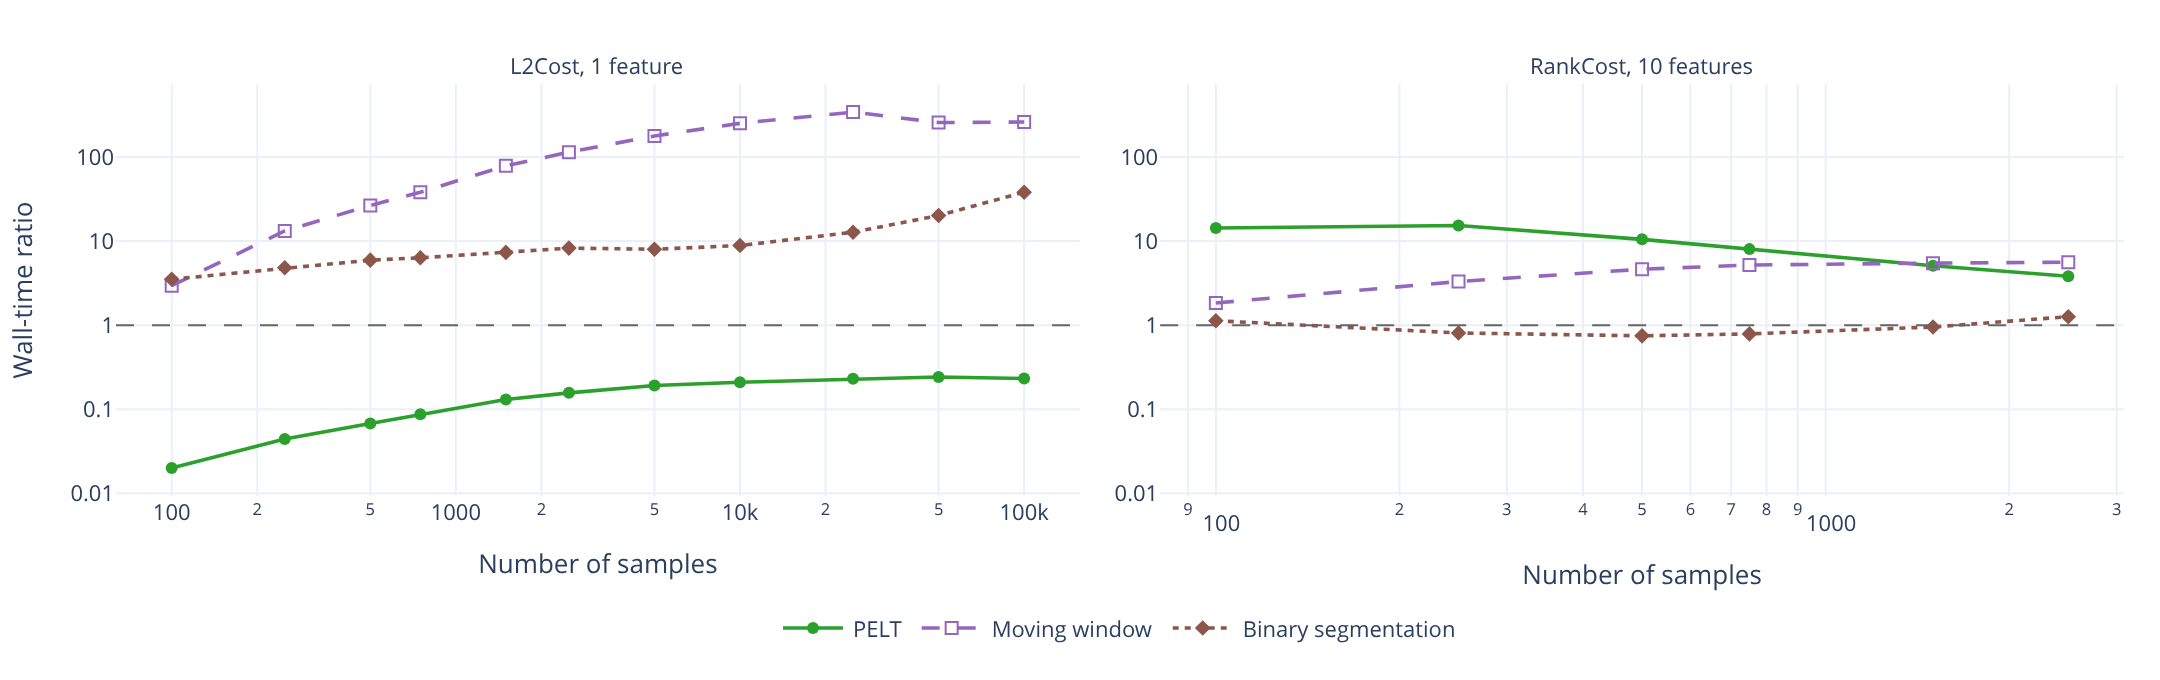
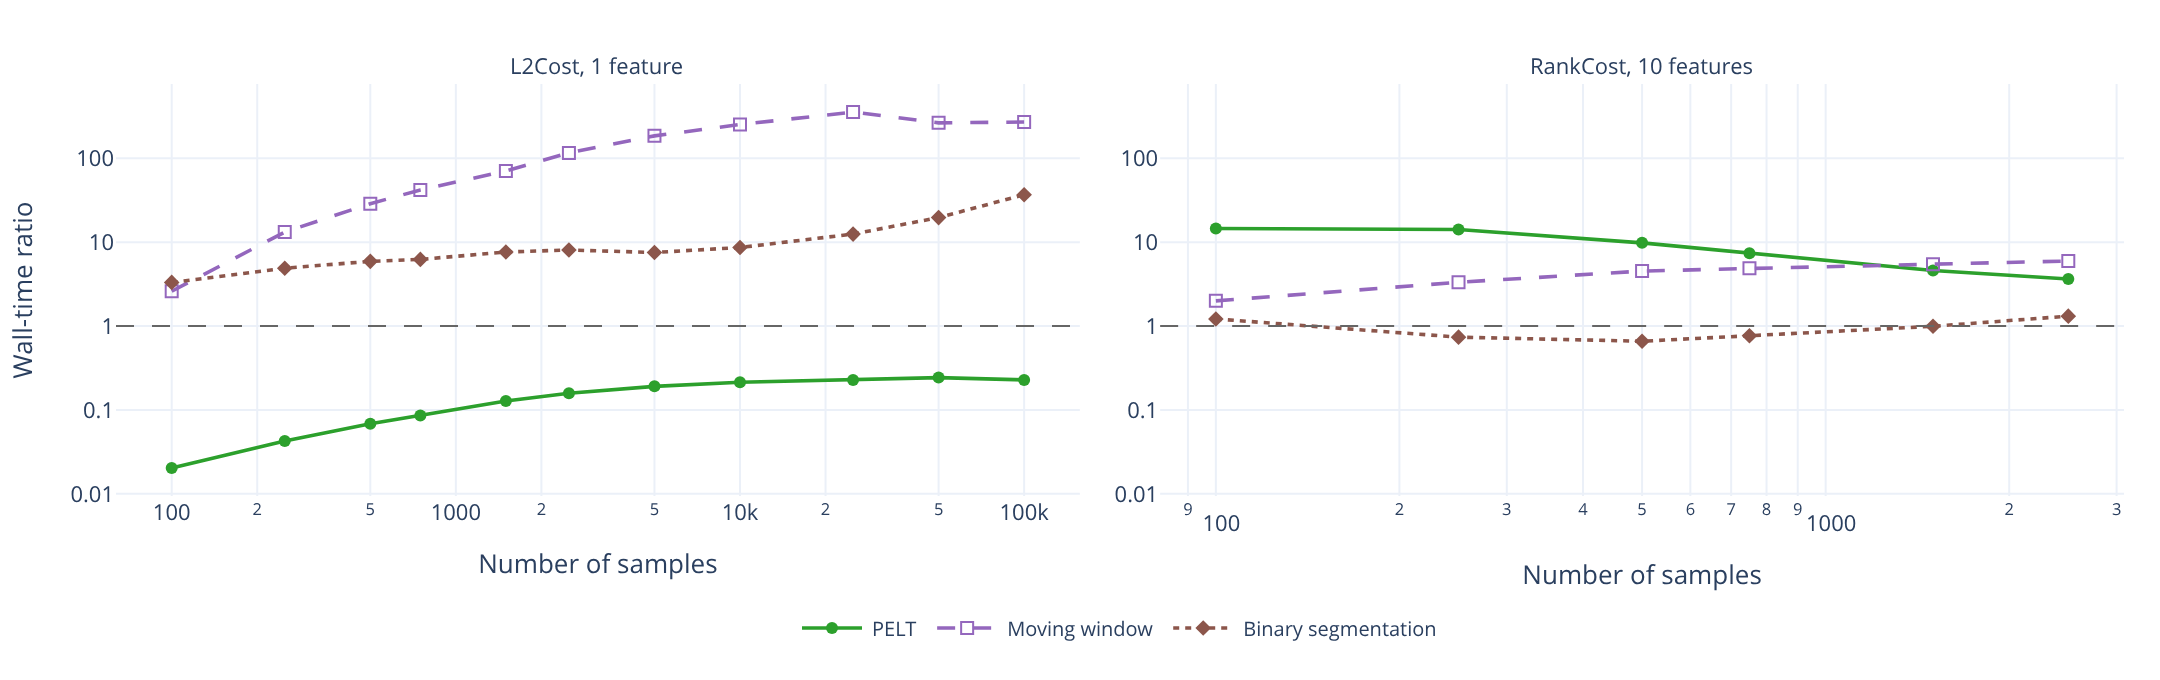
Include FPOP in L2 Change-in-mean compact benchmark.

diff --git a/scripts/paper_plotting/plot_compact_score_benchmarks.py b/scripts/paper_plotting/plot_compact_score_benchmarks.py
@@ -16,12 +16,16 @@ from change_bench.paths import find_repo_root
 from change_bench.plotting import relative_speed_frame
 
 PROJECT_DIR = find_repo_root(Path(__file__))
-RESULTS_DIR = PROJECT_DIR / "results" / "paper" / "visualized_results"
+# RESULTS_DIR = PROJECT_DIR / "results" / "paper" / "visualized_results"
+RESULTS_DIR = PROJECT_DIR / "results" / "paper"
 FIGURES_DIR = PROJECT_DIR / "figures" / "paper" / "compact"
 FIGURE_DATE = date.today().isoformat()
 SKCHANGE_VERSION = version("skchange")
 RUPTURES_VERSION = version("ruptures")
 METRIC_COL = "ski_jump_mean_s"
+
+# Set to False to drop the "Skchange: PELT" line from the absolute figure.
+SHOW_SKCHANGE_PELT: bool = True
 
 PACKAGE_COLORS = {"skchange": "#1f77b4", "ruptures": "#ff7f0e"}
 PACKAGE_LABELS = {"skchange": "Skchange", "ruptures": "Ruptures"}
@@ -33,9 +37,13 @@ PACKAGE_SEARCH_LABELS = {
 }
 SEARCH_STYLES = {
     "pelt": ("solid", "circle", "#2ca02c", "PELT"),
+    "fpop": ("dashdot", "triangle-up", "#d62728", "FPOP"),
     "moving_window": ("dash", "square-open", "#9467bd", "Moving window"),
     "binseg": ("dot", "diamond", "#8c564b", "Binary segmentation"),
 }
+# The triangle renders visually smaller than other symbols at equal size.
+MARKER_SIZES = {"fpop": 9}
+DEFAULT_MARKER_SIZE = 6
 
 
 @dataclass(frozen=True)
@@ -55,6 +63,7 @@ PANELS = [
         dimension=1,
         algorithms={
             "pelt": "pelt_l2",
+            "fpop": "fpop_l2",
             "moving_window": "moving_window_l2",
             "binseg": "binseg_l2_cusum",
         },
@@ -131,10 +140,16 @@ def build_absolute_figure(
         for search, algorithm in panel.algorithms.items():
             dash, symbol, _, search_label = SEARCH_STYLES[search]
             for package, color in PACKAGE_COLORS.items():
+                skchange_pelt = package == "skchange" and search == "pelt"
+                if skchange_pelt and not SHOW_SKCHANGE_PELT:
+                    continue
                 line = frame.filter(
                     (pl.col("cpd_algorithm") == algorithm)
                     & (pl.col("package") == package)
                 ).sort("n_samples")
+                if line.is_empty():
+                    # Skchange-only algorithms (e.g. FPOP) have no ruptures rows.
+                    continue
                 package_search_label = PACKAGE_SEARCH_LABELS.get(
                     (package, search), search_label
                 )
@@ -148,7 +163,11 @@ def build_absolute_figure(
                         legendgroup=legend_name,
                         showlegend=legend_name not in shown,
                         line=dict(color=color, dash=dash, width=1.8),
-                        marker=dict(color=color, symbol=symbol, size=6),
+                        marker=dict(
+                            color=color,
+                            symbol=symbol,
+                            size=MARKER_SIZES.get(search, DEFAULT_MARKER_SIZE),
+                        ),
                         hovertemplate=(
                             f"{legend_name}<br>Number of samples=%{{x}}"
                             "<br>Wall time=%{y:.3g} s"
@@ -190,6 +209,9 @@ def build_relative_figure(
         for search, algorithm in panel.algorithms.items():
             dash, symbol, color, search_label = SEARCH_STYLES[search]
             line = ratios.filter(pl.col("cpd_algorithm") == algorithm).sort("n_samples")
+            if line.is_empty():
+                # Skchange-only algorithms (e.g. FPOP) have no ruptures ratio.
+                continue
             figure.add_trace(
                 go.Scatter(
                     x=line["n_samples"],
@@ -199,7 +221,11 @@ def build_relative_figure(
                     legendgroup=search,
                     showlegend=search not in shown,
                     line=dict(color=color, dash=dash, width=1.8),
-                    marker=dict(color=color, symbol=symbol, size=6),
+                    marker=dict(
+                        color=color,
+                        symbol=symbol,
+                        size=MARKER_SIZES.get(search, DEFAULT_MARKER_SIZE),
+                    ),
                     hovertemplate=(
                         f"{search_label}<br>n=%{{x}}<br>Ruptures/Skchange=%{{y:.2f}}x"
                         "<extra></extra>"
@@ -234,7 +260,8 @@ def _apply_compact_layout(figure: go.Figure, n_panels: int) -> None:
             xanchor="center",
             y=-0.25,
             yanchor="top",
-            font=dict(size=11),
+            font=dict(size=10),
+            itemwidth=30,
         ),
     )
     figure.update_annotations(font=dict(size=11))

diff --git a/src/change_bench/benchmarks/registry.py b/src/change_bench/benchmarks/registry.py
@@ -24,6 +24,7 @@ from change_bench.benchmarks.comparison_pairs import (
     pair_binseg_linreg,
     pair_binseg_mv_gaussian,
     pair_binseg_rank,
+    pair_fpop_l2,
     pair_moving_window_esac,
     pair_moving_window_continuous_linear_trend,
     pair_moving_window_l1,
@@ -50,6 +51,7 @@ class Pair(StrEnum):
     """Available comparison pairs."""
 
     PELT_L2 = "pelt_l2"
+    FPOP_L2 = "fpop_l2"
     PELT_L1 = "pelt_l1"
     PELT_1D_GAUSSIAN = "pelt_1d_gaussian"
     PELT_POISSON = "pelt_poisson"
@@ -106,6 +108,7 @@ def _make_problems(
 # ---------------------------------------------------------------------------
 BENCHMARK_PAIRS: dict[Pair, Callable[..., list[BenchmarkCase]]] = {
     Pair.PELT_L2: pair_pelt_l2,
+    Pair.FPOP_L2: pair_fpop_l2,
     Pair.PELT_L1: pair_pelt_l1,
     Pair.PELT_1D_GAUSSIAN: pair_pelt_1d_gaussian,
     Pair.PELT_POISSON: pair_pelt_poisson,
@@ -134,6 +137,7 @@ BENCHMARK_PAIRS: dict[Pair, Callable[..., list[BenchmarkCase]]] = {
 #: Pairs in this set will only receive univariate (p=1) problems.
 NON_MULTIVARIATE_PAIRS: set[Pair] = {
     Pair.PELT_1D_GAUSSIAN,
+    Pair.FPOP_L2,
     Pair.BINSEG_CONTINUOUS_LINEAR_TREND,
     Pair.MOVING_WINDOW_CONTINUOUS_LINEAR_TREND,
 }
@@ -154,6 +158,7 @@ MULTIVARIATE_ONLY_PAIRS: set[Pair] = {
 PAIR_CATEGORIES: dict[str, list[Pair]] = {
     "mean_change": [
         Pair.PELT_L2,
+        Pair.FPOP_L2,
         Pair.PELT_L1,
         Pair.PELT_POISSON,
         Pair.MOVING_WINDOW_L2,

diff --git a/src/change_bench/benchmarks/comparison_pairs/fpop_l2.py b/src/change_bench/benchmarks/comparison_pairs/fpop_l2.py
@@ -1,0 +1,42 @@
+"""FPOP + L2 cost comparison pair (skchange only).
+
+skchange: FPOP(penalty=PELT_PENALTY)
+
+FPOP is specialised to the L2 cost for univariate change-in-mean, so there
+is no ruptures counterpart and ``min_segment_length`` is ignored (FPOP
+always uses a minimum segment length of 1).
+"""
+
+from __future__ import annotations
+
+from skchange.detectors import FPOP as SkchangeFPOP
+
+from change_bench.benchmarks.comparison_pairs._common import (
+    PELT_PENALTY,
+    BenchmarkCase,
+    PairConfig,
+    build_pair_cases,
+)
+from change_bench.problems.base import BenchmarkProblem
+
+_CONFIG = PairConfig(
+    pair_name="fpop_l2",
+    penalty=PELT_PENALTY,
+    sk_name_prefix="skchange_fpop_l2",
+    make_sk_detector=lambda msl: SkchangeFPOP(penalty=PELT_PENALTY),
+)
+
+
+def pair_fpop_l2(
+    problems: list[BenchmarkProblem],
+    *,
+    include_fit: bool = True,
+    min_segment_length: int = 1,
+) -> list[BenchmarkCase]:
+    """FPOP with L2 cost — skchange only."""
+    return build_pair_cases(
+        problems,
+        _CONFIG,
+        include_fit=include_fit,
+        min_segment_length=min_segment_length,
+    )

diff --git a/src/change_bench/benchmarks/comparison_pairs/__init__.py b/src/change_bench/benchmarks/comparison_pairs/__init__.py
@@ -21,6 +21,7 @@ from change_bench.benchmarks.comparison_pairs.binseg_mv_gaussian import (
     pair_binseg_mv_gaussian,
 )
 from change_bench.benchmarks.comparison_pairs.binseg_rank import pair_binseg_rank
+from change_bench.benchmarks.comparison_pairs.fpop_l2 import pair_fpop_l2
 from change_bench.benchmarks.comparison_pairs.moving_window_continuous_linear_trend import (  # noqa: E501
     pair_moving_window_continuous_linear_trend,
 )
@@ -72,6 +73,7 @@ __all__ = [
     "pair_binseg_l2_cusum",
     "pair_binseg_mv_gaussian",
     "pair_binseg_rank",
+    "pair_fpop_l2",
     "pair_moving_window_esac",
     "pair_moving_window_continuous_linear_trend",
     "pair_moving_window_l1",

diff --git a/scripts/paper_benchmarks/run_change_in_mean_benchmark.py b/scripts/paper_benchmarks/run_change_in_mean_benchmark.py
@@ -33,6 +33,7 @@ from change_bench.runner import print_penalty_summary, run_benchmark
 # ============================================================================
 PAIRS: list[Pair] = [
     Pair.PELT_L2,
+    Pair.FPOP_L2,
     Pair.MOVING_WINDOW_L2,
     Pair.BINSEG_L2_CUSUM,
 ]
